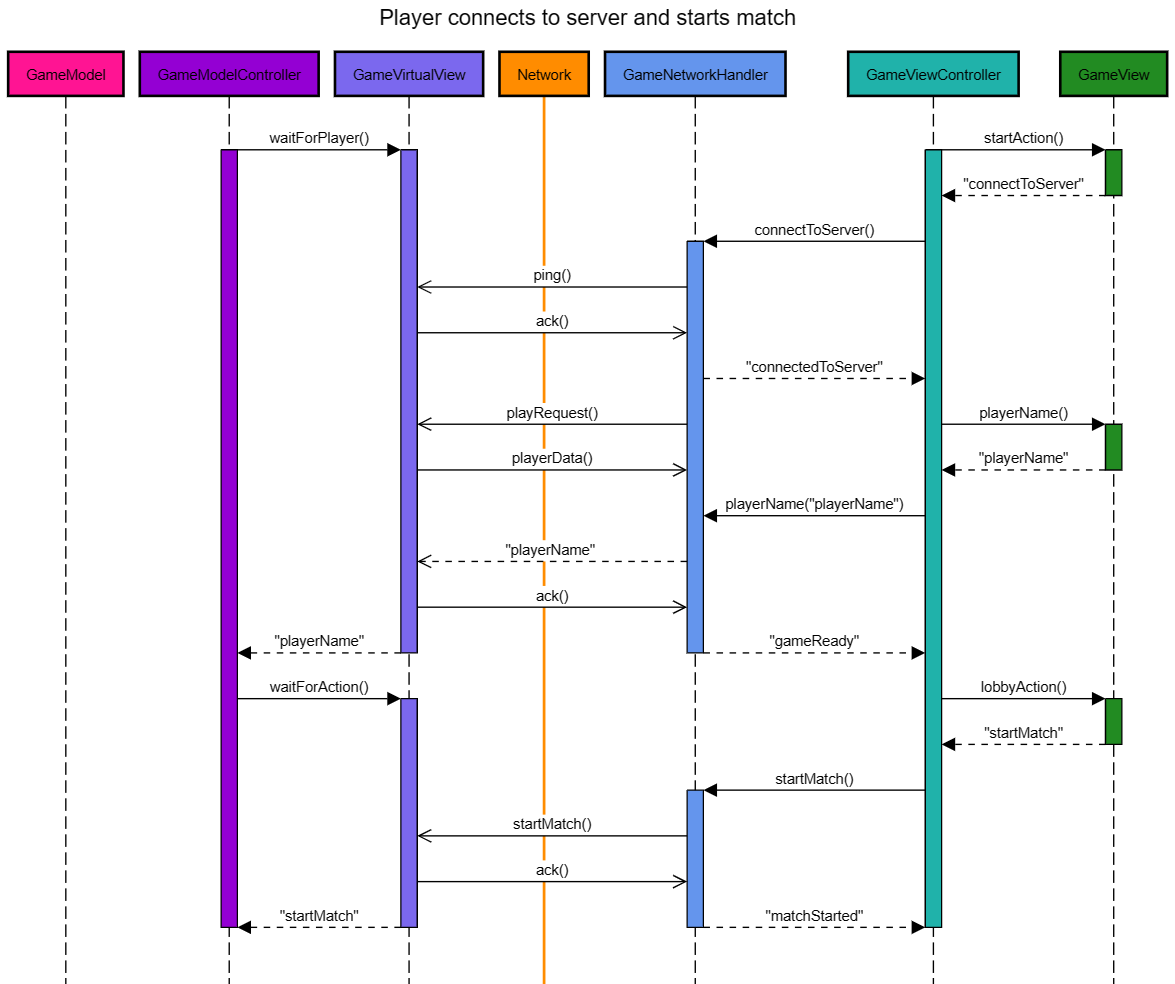
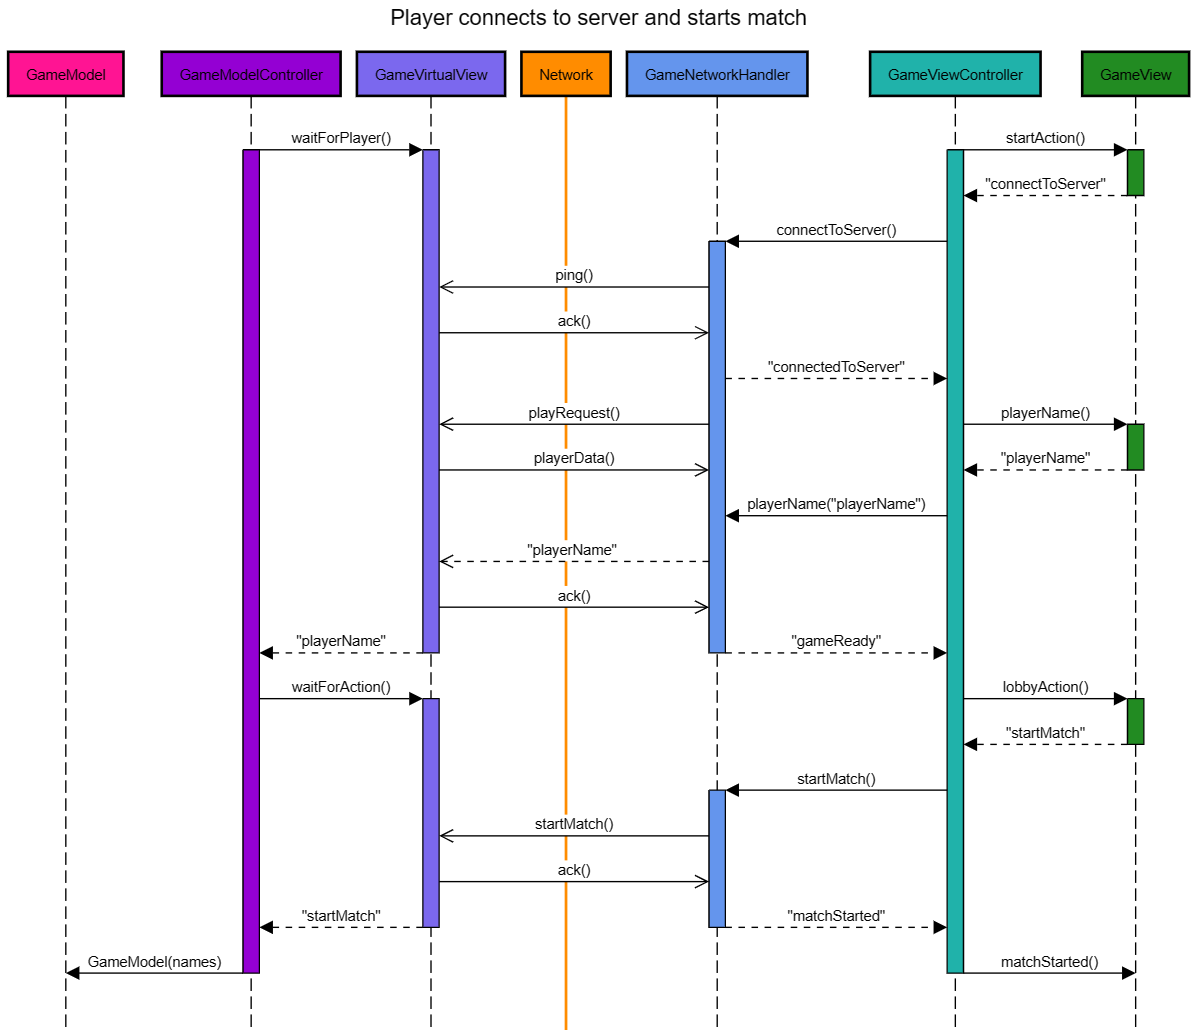
player selection sequence diagram added

diff --git a/deliverables/sequenceDiagrams/Sequence_diagrams_description.md b/deliverables/sequenceDiagrams/Sequence_diagrams_description.md
@@ -1,15 +1,18 @@
 ###### The state of the game and the client-server communication is completely managed by the client controller and the server controller. Game controllers are to call actions on other packages via "access" classes, that collects all methods needed. More in depth, controllers always call methods and waits for returning information, also if this is to be waited from network connection. The idea is that a controller makes a request and wants data as answer (to be processed).
 ##### The structure of the whole section (network/controller communication/management) is in its early stages and will be subject to changes. UML-client and UML-server show the macrostructure of the project (early designs).
 ___
-# Sequence diagrams description
+### Sequence diagrams description
 ##### In the sequence diagrams, method calls are represented with full arrows and the returning data stands on the dotted ones.
-> ## Player connects to server and starts match
-### Server side
+
+# Player connects to server and starts match
+
+**Server side**:
 The server controller is waiting for new players, asking player's name to the virtual view.
 The virtual view is listening for ping messages and eventually play requests. 
-When these are received asks for the player's name and gives it back to the controller.
+When these are received it asks for the player's name and gives it back to the controller.
 Server controller is now waiting for commands from the clients (in this case "startMatch").
-### Client side
+
+**Client side**:
 The client controller, asked by the view, tries to connect to the server, via the network handler.
 When the ping is answered with an ack, it simultaneously gives back the "connectedToServer" 
 message to his controller and launches a play request to the server.
@@ -17,3 +20,25 @@ The view is so asked for a name, which should be ready to send to the server whe
 data request is going to be made.
 After the following ack the game is declared ready and the view is waited for actions.
 With the same principles, the "startMatch" message is forwarded to the server.
+
+# Player select tiles and inserts in shelf 
+
+**Server side**:
+The server controller asks the virtual view for the player to pick
+the tiles from the board.
+Virtual view is to forward the request to the client.
+Client returns a message with a list of coordinates of the board, a list of 
+tiles that are to be inserted in the shelf (ordered as player's choice),
+and the column selected.
+The controller then calls player's pick method on the model, passing
+the client's message.
+
+**Client side**:
+The client controller is waiting for a message from the server.
+When the "pickTiles" command is retrieved, the board is 
+updated and the player is called to select coordinates on it.
+He's then asked for the insertion order of the tiles and for the 
+column in where he adds them.
+Checks of a legal selection are directly made in this section.
+The information is the packed in a selection message and sent to
+the server.
